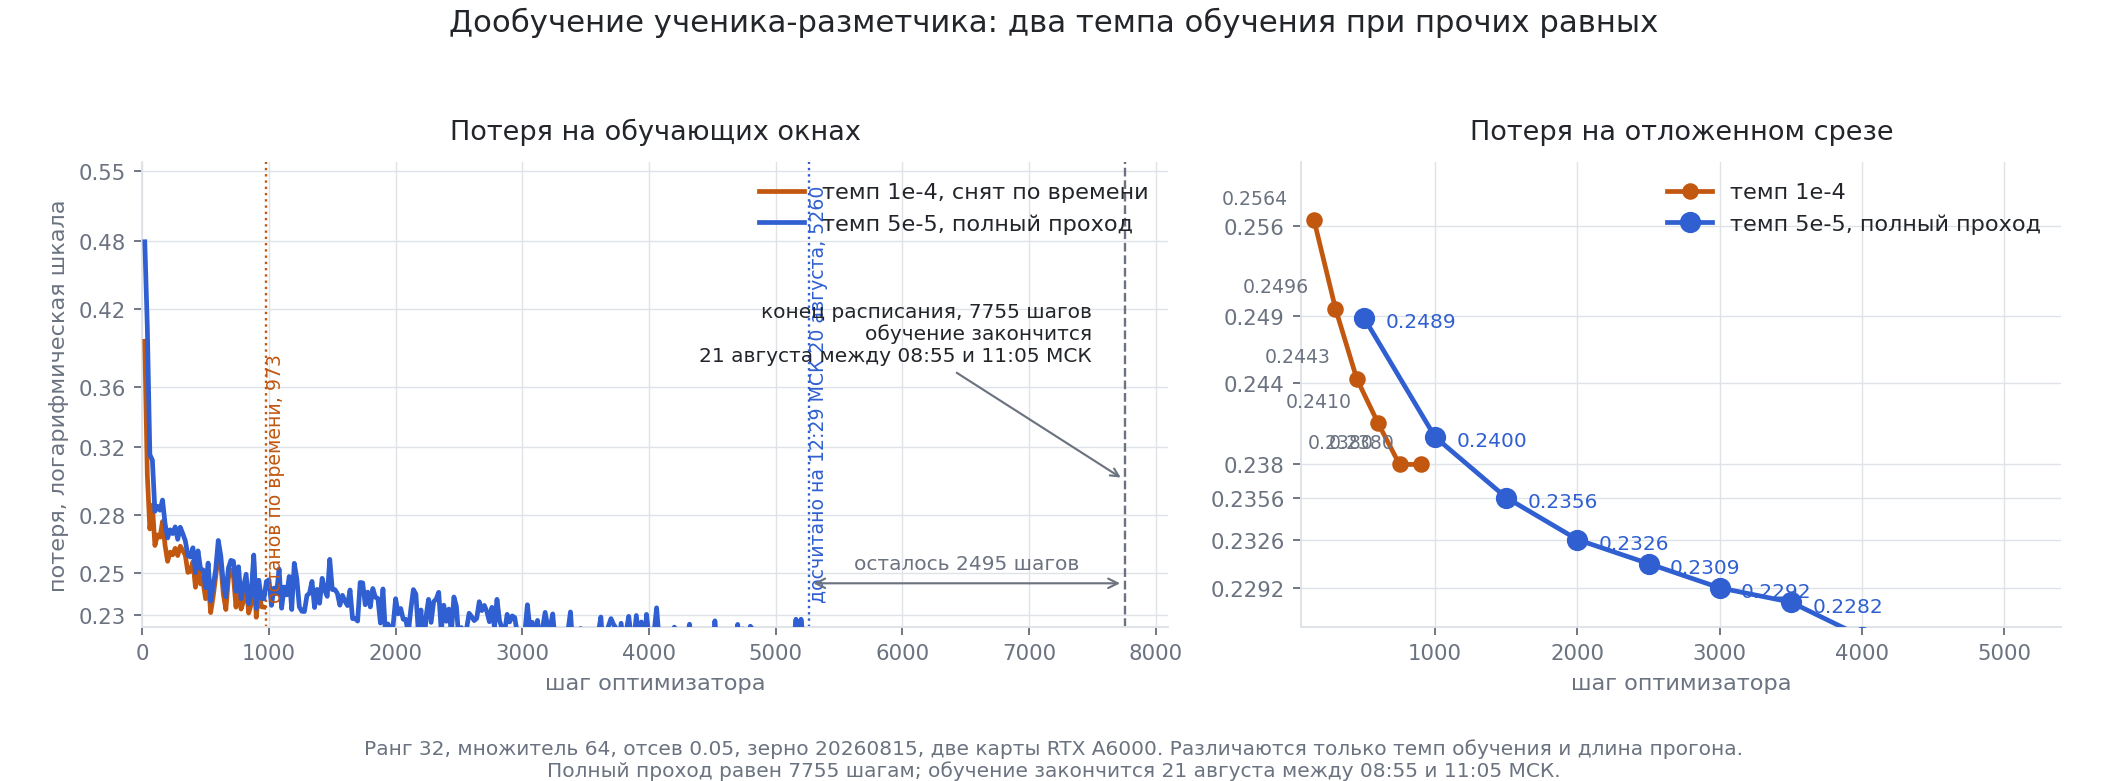
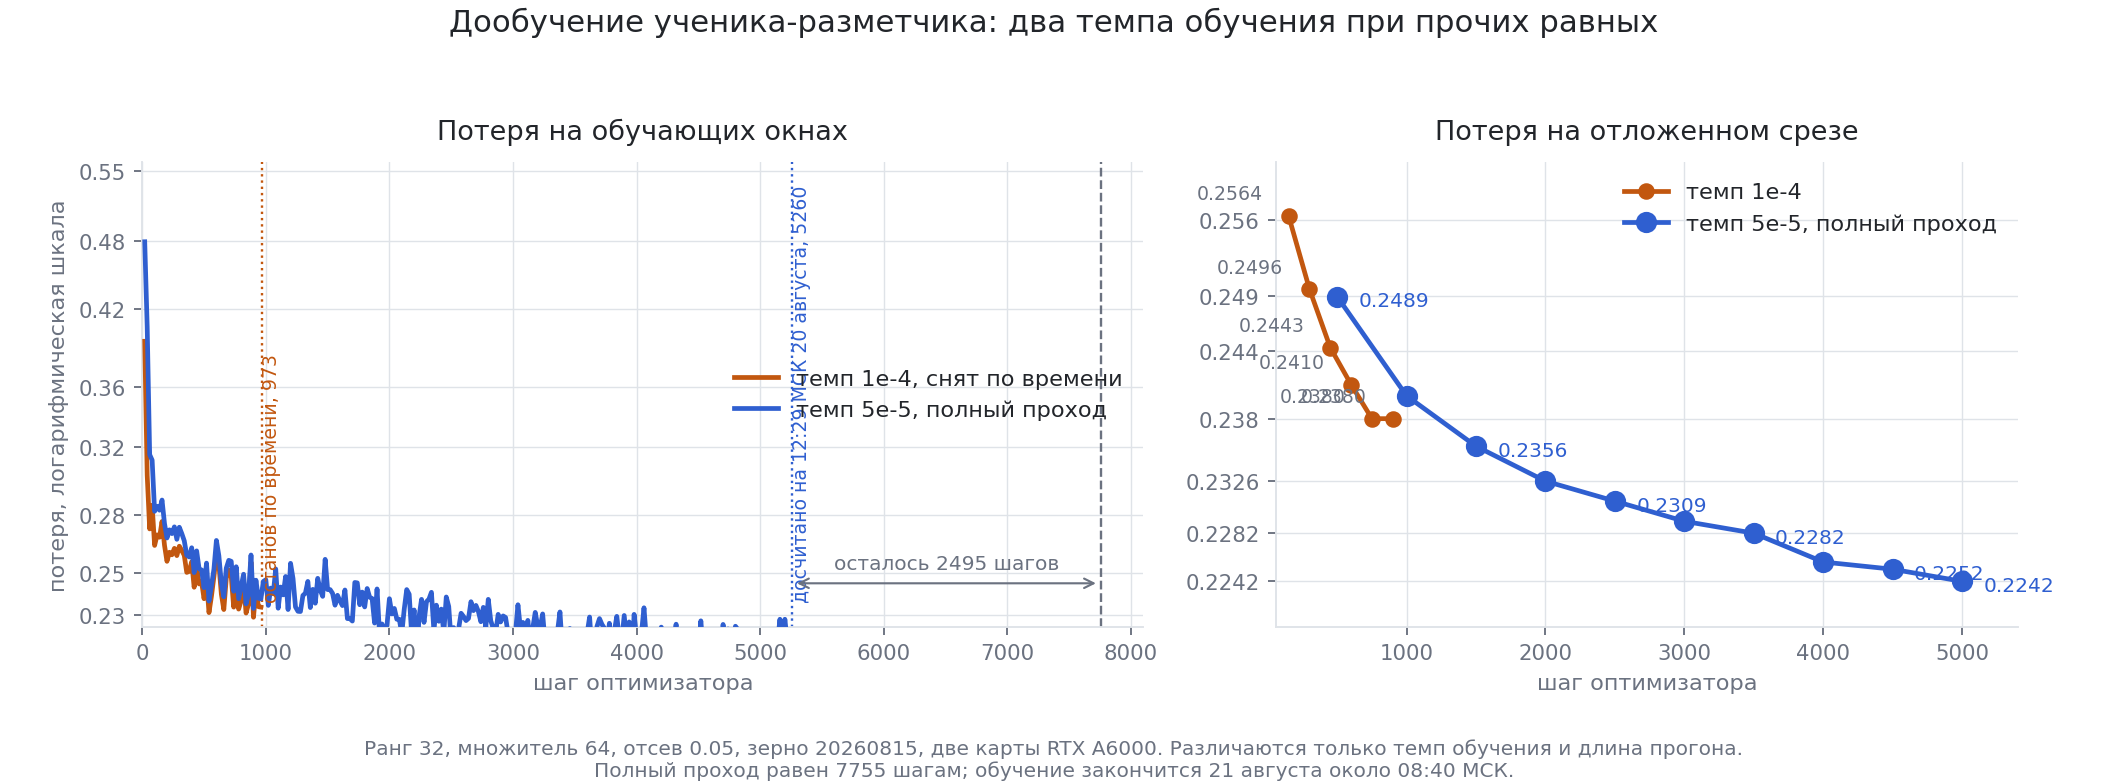
Убрана подпись про конец расписания с графика; расписано, что именно за состояния сохранялись

diff --git a/docs/assets/draw_fig_student_loss.py b/docs/assets/draw_fig_student_loss.py
@@ -75,10 +75,6 @@ ax1.axvline(s_slow[-1], color=C_SLOW, linewidth=1.0, linestyle=":", zorder=2)
 ax1.text(s_slow[-1], 0.2335, f" досчитано на 12:29 МСК 20 августа, {s_slow[-1]}", color=C_SLOW,
          fontsize=8, va="bottom", ha="left", rotation=90)
 ax1.axvline(PLAN, color=MUTED, linewidth=1.0, linestyle="--", zorder=2)
-ax1.annotate("конец расписания, 7755 шагов\nобучение закончится\n21 августа между 08:55 и 11:05 МСК",
-             xy=(PLAN, 0.30), xytext=(PLAN - 260, 0.40), fontsize=8.5, color=INK,
-             ha="right", va="center",
-             arrowprops=dict(arrowstyle="->", color=MUTED, lw=0.9))
 ax1.annotate("", xy=(PLAN, 0.245), xytext=(s_slow[-1], 0.245),
              arrowprops=dict(arrowstyle="<->", color=MUTED, lw=0.9))
 ax1.text((PLAN + s_slow[-1]) / 2, 0.250,
@@ -97,7 +93,9 @@ ax2.plot([p[0] for p in v_slow], [p[1] for p in v_slow], color=C_SLOW,
 for st, lo in v_fast:
     ax2.annotate(f"{lo:.4f}", (st, lo), textcoords="offset points",
                  xytext=(-11, 7), ha="right", fontsize=8, color=MUTED)
-for st, lo in v_slow:
+for k, (st, lo) in enumerate(v_slow):
+    if k % 2 and k < len(v_slow) - 1:
+        continue          # через одну, иначе подписи наезжают
     ax2.annotate(f"{lo:.4f}", (st, lo), textcoords="offset points",
                  xytext=(9, -4), ha="left", fontsize=8.5, color=C_SLOW)
 ax2.set_title("Потеря на отложенном срезе", fontsize=11.5, color=INK, pad=10)
@@ -110,11 +108,11 @@ for ax in (ax1, ax2):
     ax.yaxis.set_minor_locator(FixedLocator([]))
     ax.yaxis.set_major_formatter(FixedFormatter([f"{t:g}" for t in ticks]))
 ax1.set_ylim(0.225, 0.56)
-ax2.set_ylim(0.2265, 0.261)
-ax2.yaxis.set_major_locator(FixedLocator([0.2292, 0.2326, 0.2356, 0.238, 0.244, 0.249, 0.256]))
-ax2.yaxis.set_major_formatter(FixedFormatter(["0.2292", "0.2326", "0.2356", "0.238", "0.244", "0.249", "0.256"]))
+ax2.set_ylim(0.2205, 0.2615)
+ax2.yaxis.set_major_locator(FixedLocator([0.2242, 0.2282, 0.2326, 0.238, 0.244, 0.249, 0.256]))
+ax2.yaxis.set_major_formatter(FixedFormatter(["0.2242", "0.2282", "0.2326", "0.238", "0.244", "0.249", "0.256"]))
 
-ax1.legend(frameon=False, fontsize=9.5, loc="upper right", labelcolor=INK)
+ax1.legend(frameon=False, fontsize=9.5, loc="center right", labelcolor=INK)
 ax2.legend(frameon=False, fontsize=9.5, loc="upper right", labelcolor=INK)
 
 fig.suptitle("Дообучение ученика-разметчика: два темпа обучения при прочих равных",
@@ -124,7 +122,7 @@ fig.text(0.5, 0.035,
          "Различаются только темп обучения и длина прогона.",
          ha="center", fontsize=8.5, color=MUTED)
 fig.text(0.5, 0.006,
-         "Полный проход равен 7755 шагам; обучение закончится 21 августа между 08:55 и 11:05 МСК.",
+         "Полный проход равен 7755 шагам; обучение закончится 21 августа около 08:40 МСК.",
          ha="center", fontsize=8.5, color=MUTED)
 fig.tight_layout(rect=[0.01, 0.075, 0.99, 0.955])
 fig.savefig(OUT, dpi=170, facecolor="white")

diff --git a/docs/reports/report_2026_08_18.md b/docs/reports/report_2026_08_18.md
@@ -554,7 +554,13 @@
 
 ### 3.3. Разметка по внутренним состояниям модели
 
-Текстовый разметчик читает уже написанное. Есть и другой источник: состояния самой модели в момент генерации. Их сохранили при обычном прогоне и проверили, читаются ли по ним события.
+Текстовый разметчик читает уже написанное. Есть и другой источник, доступный только изнутри самой модели в момент генерации, и он состоит из двух частей.
+
+Первая часть - скрытые состояния. Порождая очередной токен, модель проводит его представление через свои слои, и на выходе каждого слоя получается вектор чисел. У gpt-oss-20b таких слоёв 24, а вектор на каждом слое состоит из 2880 чисел, поэтому на один токен приходится 24 умножить на 2880, то есть 69120 чисел, и это 135 килобайт при хранении в формате половинной точности. Именно эти векторы и сохранялись.
+
+Вторая часть - признаки распределения следующего токена. Прежде чем выбрать токен, модель получает распределение вероятностей по всему словарю; из него сохранялись сводные величины, такие как вероятность выбранного токена и мера неопределённости распределения. Они весят несопоставимо меньше, 38 килобайт на всю трассу, и не прореживаются никогда.
+
+Всё это сохранили при обычном прогоне и проверили, читаются ли по ним события.
 
 Материал: 198 трасс gpt-oss-20b на gpqa_diamond, все 24 слоя, признаки распределения следующего токена на каждом токене. Сырые состояния занимают 67.53 гибибайта, после прореживания 35.87, то есть остаётся 53.1 процента точек. Правило прореживания задумывалось экономящим в пятьдесят раз, а экономит вдвое, потому что ученик помечает событием заметную долю сегментов, а правило хранит все токены помеченного сегмента; точечная разновидность того же правила даёт 8.27 процента. В предел длины не упёрлась ни одна трасса при медиане 1366 токенов и максимуме 28092.
 
